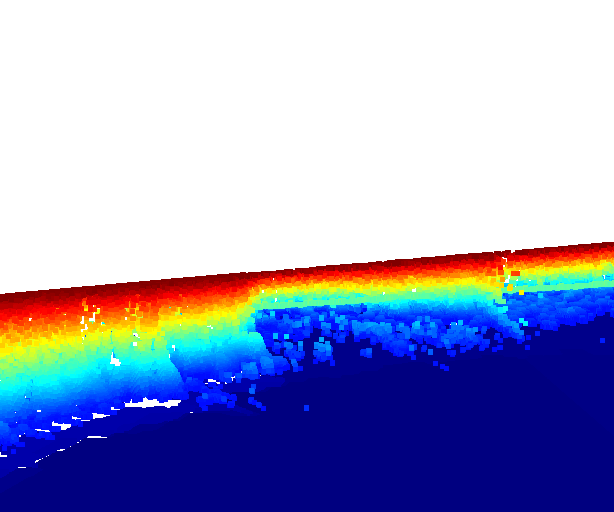
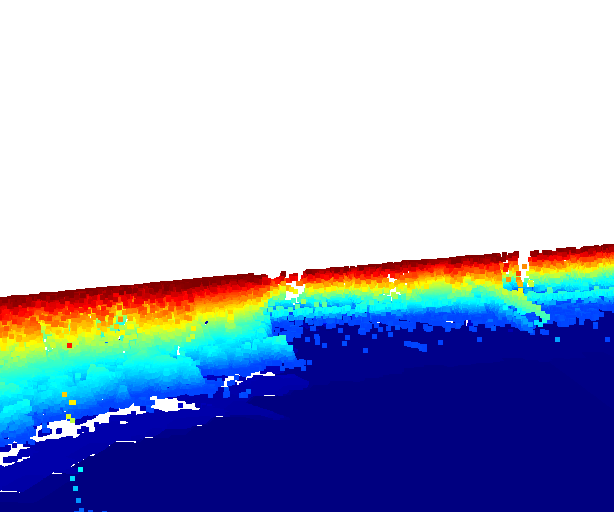
Add orientation and implement 2D map marker with orientation;

Changed region(s): [[0.0, 0.4688, 1.0, 0.9688], [0.1238, 0.9688, 0.1547, 1.0]]

diff --git a/view/Processed3dView.py b/view/Processed3dView.py
@@ -19,7 +19,8 @@ from time import time, sleep
 class MapViewTask():
 
     def __init__(self):
-        self.pos = (0, 0)
+        # x coordinate, y coordinate, orientation at xy plan
+        self.pos = (0, 0, 0)
 
         self.front_img = None
         self.rear_img = None
@@ -233,21 +234,21 @@ class ViewProcessor3D():
         pos_x = int(source_map_width * scale_x)
         pos_y = int(source_map_height * scale_y)
 
-        self.origin_pos = (pos_x, pos_y)
+        self.origin_pos = (pos_x, pos_y, 0)
 
         logging.info(f"Origin point: {self.origin_pos}")
 
         return self.origin_pos
 
     # point position at base 2d map picture
-    def locate_point(self, pos=(0, 0)):
-        input_x, input_y = pos
-        pos0_x, pos0_y = self.origin_pos
+    def locate_point(self, pos=(0, 0, 0)):
+        input_x, input_y, ort_xy = pos
+        pos0_x, pos0_y, pos0_ort_xy = self.origin_pos
 
         pos_x = int(input_x * self.map_factor + pos0_x)
         pos_y = int(input_y * self.map_factor + pos0_y)
 
-        map_pos = (pos_x, pos_y)
+        map_pos = (pos_x, pos_y, ort_xy)
 
         logging.info(f"Locate 2D Map point: {map_pos} for point {pos}")
 
@@ -262,9 +263,9 @@ class ViewProcessor3D():
         return self.origin_pos_move
 
     # point position at GUI window
-    def locate_point_for_moving(self, pos=(0, 0)):
-        map_pos_x, map_pos_y = self.locate_point(pos)
-        logging.info(f"Adjust by map size, after ({map_pos_x, map_pos_y})")
+    def locate_point_for_moving(self, pos=(0, 0, 0)):
+        map_pos_x, map_pos_y, map_ort_xy = self.locate_point(pos)
+        logging.info(f"Adjust by map size, after ({map_pos_x, map_pos_y, map_ort_xy})")
 
         map_scale_x = self.window_width / self.map_source_img.size[0]
         map_scale_y = self.window_height / self.map_source_img.size[1]
@@ -272,7 +273,7 @@ class ViewProcessor3D():
         # Adjustment original point based on window scale
         map_pos_x = int(map_pos_x * map_scale_x)
         map_pos_y = int(map_pos_y * map_scale_y)
-        logging.info(f"Adjust by window, after ({map_pos_x, map_pos_y})")
+        logging.info(f"Adjust by window, after ({map_pos_x, map_pos_y, map_ort_xy})")
 
         # Adjustment based on zoom factor
         #adjust_x = int(self.map_source_img.size[0] / self.zoom_factor / 2 - self.map_source_img.size[0] / 2)
@@ -281,23 +282,23 @@ class ViewProcessor3D():
         # Adjustment original point based on zoom factor
         map_pos_x = int(map_pos_x / self.zoom_factor - (self.window_width / 2 / self.zoom_factor - self.window_width / 2))
         map_pos_y = int(map_pos_y / self.zoom_factor - (self.window_height / 2 / self.zoom_factor - self.window_height / 2))
-        logging.info(f"Adjust by zoom, after ({map_pos_x, map_pos_y})")
+        logging.info(f"Adjust by zoom, after ({map_pos_x, map_pos_y, map_ort_xy})")
 
-        moving_pos = (map_pos_x, map_pos_y)
+        moving_pos = (map_pos_x, map_pos_y, map_ort_xy)
 
         logging.info(f"Mapped move point: {moving_pos} for point {pos}")
 
         return moving_pos
 
     # Compute moving pixels regarding to origin point
-    def locate_moving_distance(self, pos=(0, 0)):
-        map_pos_x, map_pos_y = self.locate_point(pos)
-        origin_x, origin_y = self.origin_pos
+    def locate_moving_distance(self, pos=(0, 0, 0)):
+        map_pos_x, map_pos_y, map_ort_xy = self.locate_point(pos)
+        origin_x, origin_y, orgin_ort_xy = self.origin_pos
 
         move_x = map_pos_x - origin_x
         move_y = map_pos_y - origin_y
 
-        move_pos = (move_x, move_y)
+        move_pos = (move_x, move_y, map_ort_xy)
 
         logging.info(f"Moving: {move_pos} for point {pos}")
 
@@ -419,14 +420,18 @@ class ViewProcessor3D():
 
         return map2d_image
 
-    def generate_map_image_with_marker(self, target_pos=(0, 0)):
+    def generate_map_image_with_marker(self, target_pos=(0, 0, 0)):
+        marker_pos_x, marker_pos_y, marker_ort_xy = self.locate_point_for_moving(target_pos)
+        logging.info(f"located marker pos: ({marker_pos_x, marker_pos_y, marker_ort_xy}) for pos {target_pos}")
+
         map_with_marker = self.map_image.copy()
         marker_img = self.pos_marker_img.copy()
+        if marker_ort_xy != 0:
+            logging.debug(f"Rotate marker: {marker_ort_xy} degree")
+            marker_img = marker_img.rotate(marker_ort_xy, expand=1)
+
         marker_img_width, marker_img_height = marker_img.size
         #logging.info(f"maker image width: {marker_img_width}, height: {marker_img_height}")
-
-        marker_pos_x, marker_pos_y = self.locate_point_for_moving(target_pos)
-        logging.info(f"located marker pos: ({marker_pos_x}, {marker_pos_y}) for pos {target_pos}")
 
         move_pos_x = int(marker_pos_x - marker_img_width / 2)
         move_pos_y = int(marker_pos_y - marker_img_height / 2)
@@ -449,10 +454,10 @@ class ViewProcessor3D():
         ctr3d.convert_from_pinhole_camera_parameters(camera_params)
         return True
 
-    def generate_front_rear_view(self, vis3d, target_pos=(0, 0)):
-        origin_x, origin_y = self.origin_pos_move
-        move_pos_x, move_pos_y = self.locate_moving_distance(target_pos)
-        target_pos_x, target_pos_y = target_pos
+    def generate_front_rear_view(self, vis3d, target_pos=(0, 0, 0)):
+        origin_x, origin_y, origin_ort_xy = self.origin_pos_move
+        move_pos_x, move_pos_y, move_ort_xy = self.locate_moving_distance(target_pos)
+        target_pos_x, target_pos_y, target_ort_xy = target_pos
         logging.debug(f"Locate front/rear view to move: ({move_pos_x}, {move_pos_y}) for target: {target_pos}")
 
         x0 = int(self.window_width / 2)
@@ -596,7 +601,7 @@ if __name__ == "__main__":
 
     pts = viewer.read_pts_3d()
 
-    check_pos = (10, 10)
+    check_pos = (10, 10, 45)
 
     moving_distance = viewer.locate_moving_distance(pos=check_pos)
 

diff --git a/view/ViewerBackendService.py b/view/ViewerBackendService.py
@@ -8,8 +8,10 @@ import time
 class MapState():
 
     def __init__(self):
-        self.posx = 0
-        self.posy = 0
+        # x coordinate, y coordinate, orientation at xy plan
+        self.pos_x = 0
+        self.pos_y = 0
+        self.ort_xy = 0
 
         self.front_img = None
         self.rear_img = None
@@ -40,9 +42,10 @@ class ViewerService(rpyc.Service):
 
         # x, y coordinates
         if "pos" in params:
-            posx, posy = params["pos"]
-            map_state.posx = posx
-            map_state.posy = posy
+            pos_x, pos_y, ort_xy = params["pos"]
+            map_state.pos_x = pos_x
+            map_state.pos_y = pos_y
+            map_state.ort_xy = ort_xy
 
         try:
             self._req_q.put(map_state, timeout=0.1)
@@ -51,7 +54,7 @@ class ViewerService(rpyc.Service):
             map_state.req_state_err = "request error"
             logging.error(f"Cannot put request in queue: {dir(map_state)}", exc_info=True)
 
-        return {"pos": (map_state.posx, map_state.posy), "state_err": map_state.req_state_err}
+        return {"pos": (map_state.pos_x, map_state.pos_y, map_state.ort_xy), "state_err": map_state.req_state_err}
 
     # TrackingViewer receive view map results from backend service
     def exposed_receive_view(self):
@@ -59,9 +62,10 @@ class ViewerService(rpyc.Service):
 
         if self._resp_q.empty():
             map_state.resp_state_err = "empty queue"
-            return {"state_err": map_state.resp_state_err, "pos": (map_state.posx, map_state.posy),
-                 "front_img": map_state.front_img, "rear_img": map_state.rear_img,
-                 "map_img": map_state.map_img}
+            return {"state_err": map_state.resp_state_err,
+                    "pos": (map_state.pos_x, map_state.pos_y, map_state.ort_xy),
+                    "front_img": map_state.front_img, "rear_img": map_state.rear_img,
+                    "map_img": map_state.map_img}
 
         try:
             map_state = self._resp_q.get(timeout=0.1)
@@ -70,9 +74,10 @@ class ViewerService(rpyc.Service):
             map_state.resp_state_err = "response error"
             logging.error(f"Cannot get request in queue", exc_info=True)
 
-        return {"state_err": map_state.resp_state_err, "pos": (map_state.posx, map_state.posy),
-                 "front_img": map_state.front_img, "rear_img": map_state.rear_img,
-                 "map_img": map_state.map_img}
+        return {"state_err": map_state.resp_state_err,
+                "pos": (map_state.pos_x, map_state.pos_y, map_state.ort_xy),
+                "front_img": map_state.front_img, "rear_img": map_state.rear_img,
+                "map_img": map_state.map_img}
 
     # Processed3dView retrieve view task from backend service
     def exposed_retrieve_view_task(self):
@@ -80,7 +85,8 @@ class ViewerService(rpyc.Service):
 
         if self._req_q.empty():
             map_state.req_state_err = "empty queue"
-            return {"pos": (map_state.posx, map_state.posy), "state_err": map_state.req_state_err}
+            return {"pos": (map_state.pos_x, map_state.pos_y, map_state.ort_xy),
+                     "state_err": map_state.req_state_err}
 
         try:
             # Always to get latest task and ignore other tasks
@@ -92,7 +98,8 @@ class ViewerService(rpyc.Service):
             map_state.req_state_err = "error"
             logging.error(f"Cannot retrieve view task", exc_info=True)
 
-        return {"pos": (map_state.posx, map_state.posy), "state_err": map_state.req_state_err}
+        return {"pos": (map_state.pos_x, map_state.pos_y, map_state.ort_xy),
+                "state_err": map_state.req_state_err}
 
     # Processed3dView complete view task and save results to backend service
     def exposed_complete_view_task(self, view_task_state=None):
@@ -102,7 +109,7 @@ class ViewerService(rpyc.Service):
             map_state.resp_state_err = "task error"
             logging.error("Failed to completed view task")
         else:
-            map_state.posx, map_state.posy = view_task_state["pos"]
+            map_state.pos_x, map_state.pos_y, map_state.ort_xy = view_task_state["pos"]
             map_state.front_img = view_task_state["front_img"]
             map_state.rear_img = view_task_state["rear_img"]
             map_state.map_img = view_task_state["map_img"]
@@ -117,7 +124,7 @@ class ViewerService(rpyc.Service):
             map_state.resp_state_err = "error"
             logging.error(f"Cannot save completed view task", exc_info=True)
 
-        return {"state_err": map_state.resp_state_err, "pos": (map_state.posx, map_state.posy)}
+        return {"state_err": map_state.resp_state_err, "pos": (map_state.pos_x, map_state.pos_y, map_state.ort_xy)}
 
 
 if __name__ == "__main__":

diff --git a/view/TrackingViewer.py b/view/TrackingViewer.py
@@ -12,7 +12,8 @@ from time import time, sleep
 class MapViewState():
 
     def __init__(self):
-        self.pos = (0, 0)
+        # x coordinate, y coordinate, orientation at xy plan
+        self.pos = (0, 0, 0)
 
         self.front_img = None
         self.rear_img = None
@@ -42,7 +43,7 @@ class MapAgent():
         finally:
             self.connected = False
 
-    def request_views(self, pos=(0, 0)):
+    def request_views(self, pos=(0, 0, 0)):
         success = True
 
         self.connect()
@@ -115,7 +116,8 @@ class MapViewer():
                 pos_list = line_text.split(",")
                 pos_x = int(pos_list[0].strip())
                 pos_y = int(pos_list[1].strip())
-                self.pos_list.append((pos_x, pos_y))
+                ort_xy = int(pos_list[2].strip())
+                self.pos_list.append((pos_x, pos_y, ort_xy))
 
 
     def get_file_path(self, folder_name, filename):
@@ -171,7 +173,7 @@ class MapViewer():
     def start_viewer(self):
         logging.info(f"Start to track map view")
         self.tracking_task = True
-        self.txt_map_cord.set("Coordinate: ")
+        self.txt_map_cord.set(" ")
         self.update_viewer()
 
     def update_viewer(self):
@@ -192,7 +194,7 @@ class MapViewer():
         if service_status:
             logging.debug(f"Map view result retrieved")
             self.current_task_view = map_view_results
-            map_pos_x, map_pos_y = self.current_task_view.pos
+            map_pos_x, map_pos_y, map_ort_xy = self.current_task_view.pos
             front_img = self.current_task_view.front_img
             rear_img = self.current_task_view.rear_img
             map_img = self.current_task_view.map_img
@@ -208,7 +210,7 @@ class MapViewer():
             #self.cvs_rear_view.itemconfig(self.img_rear_id, image=self.img_rear_view)
 
             # Show coordiantes
-            pos_cord = "Coordinate: ({0}, {1})".format(map_pos_x, map_pos_y)
+            pos_cord = "Coordinate: ({0}, {1}), Orentation: {2}".format(map_pos_x, map_pos_y, map_ort_xy)
             self.txt_map_cord.set(pos_cord)
 
             self.mainframe.update()
@@ -315,7 +317,7 @@ class MapViewer():
         self.lbl_map_view_title.grid(column=0, row=0, sticky=(tk.N, tk.W, tk.E, tk.S))
 
         self.txt_map_cord = tk.StringVar()
-        self.txt_map_cord.set("Coordinate: ")
+        self.txt_map_cord.set(" ")
 
         self.lbl_map_cord = ttk.Label(master=self.frm_right_center, textvariable=self.txt_map_cord, anchor=tk.W,
                                             style="map.TLabel")

diff --git a/view/GenerateTasks.py b/view/GenerateTasks.py
@@ -1,47 +1,27 @@
 import os
 import sys
+import math
 
-
-def save_tasks(range_x, range_y, out_file):
+def save_tasks(range_x, range_y, orientation, out_file):
     for pos_x, pos_y in zip(range_x, range_y):
-        out_file.write("{0},{1}\n".format(pos_x, pos_y))
+        out_file.write("{0},{1},{2}\n".format(pos_x, pos_y, orientation))
 
 
 target_file = os.path.join(os.path.join(os.getcwd(), "config"), "tracking_tasks.tmp.txt")
 
 with open(target_file, 'w') as tf:
+    # Orientation in anti-clockwise degree
+    orientation_xy = 45
     x_range = range(0, -300, -10)
     y_range = range(0, -300, -10)
-    save_tasks(x_range, y_range, tf)
+    save_tasks(x_range, y_range, orientation_xy, tf)
 
-    x_range = range(-300, -270, 1)
+    orientation_xy = 180
+    x_range = [-300] * 30
     y_range = range(-300, 0, 10)
-    save_tasks(x_range, y_range, tf)
+    save_tasks(x_range, y_range, orientation_xy, tf)
 
-    x_range = range(-270, 0, 10)
-    y_range = range(0, 27, 1)
-    save_tasks(x_range, y_range, tf)
-
-    x_range = range(0, -100, -10)
-    y_range = range(27, -17, -1)
-    save_tasks(x_range, y_range, tf)
-
-    x_range = range(-100, 0, 10)
-    y_range = range(0, -100, -10)
-
-    save_tasks(x_range, y_range, tf)
-
-    x_range = range(0, 100, 10)
-    y_range = range(-100, 0, 10)
-
-    save_tasks(x_range, y_range, tf)
-
-    x_range = range(100, 0, -10)
-    y_range = range(0, 100, 10)
-
-    save_tasks(x_range, y_range, tf)
-
-    x_range = range(0, -100, -10)
-    y_range = range(100, 0, -10)
-
-    save_tasks(x_range, y_range, tf)
+    orientation_xy = 270
+    x_range = range(-300, 0, 10)
+    y_range = [0] * 30
+    save_tasks(x_range, y_range, orientation_xy, tf)
